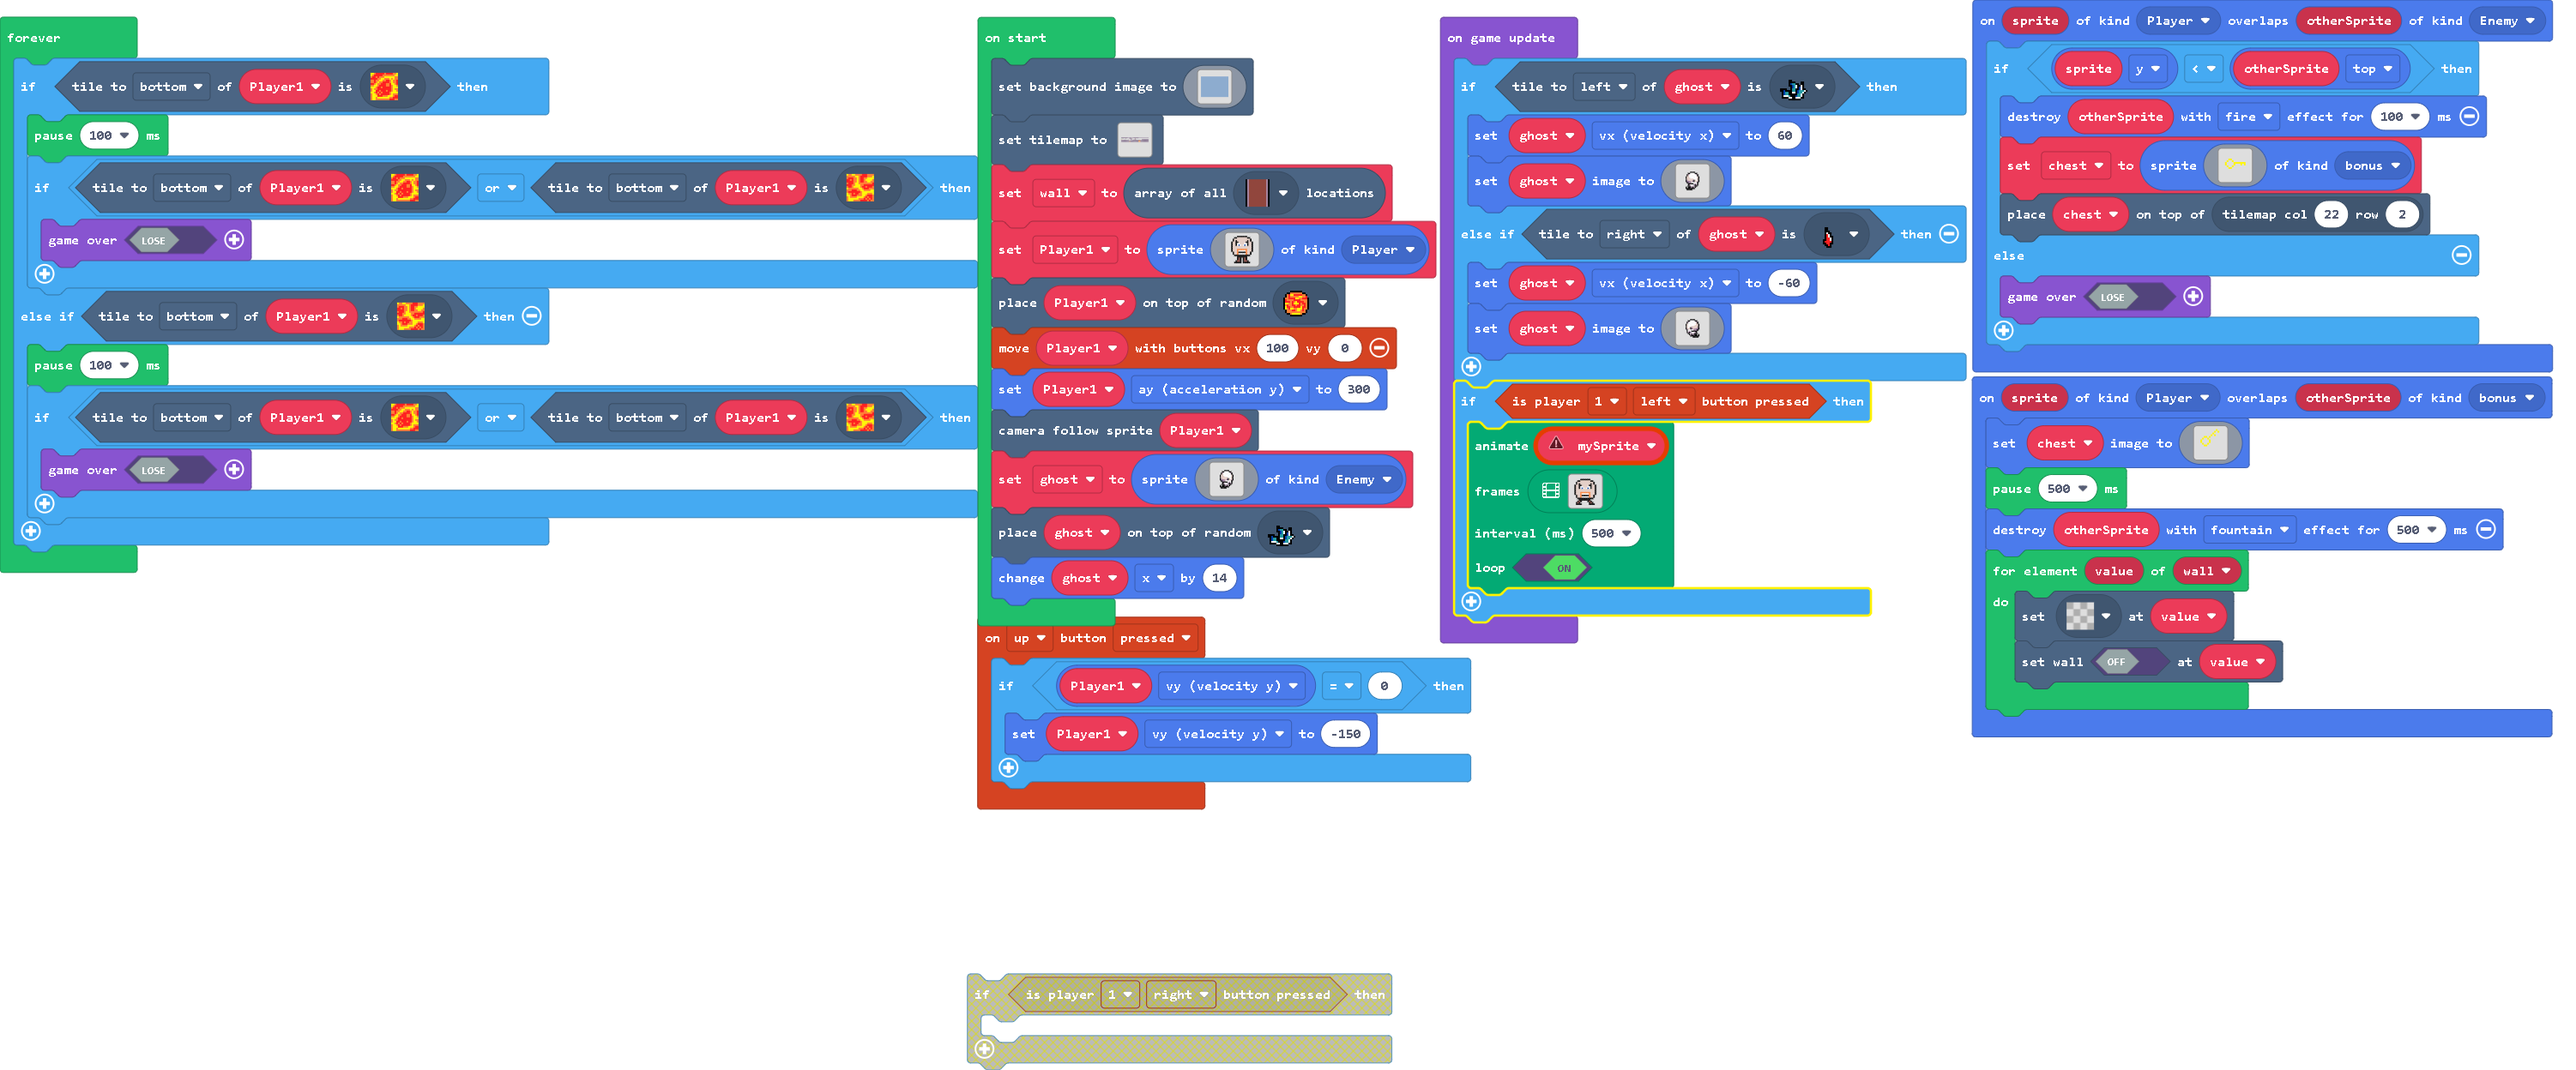
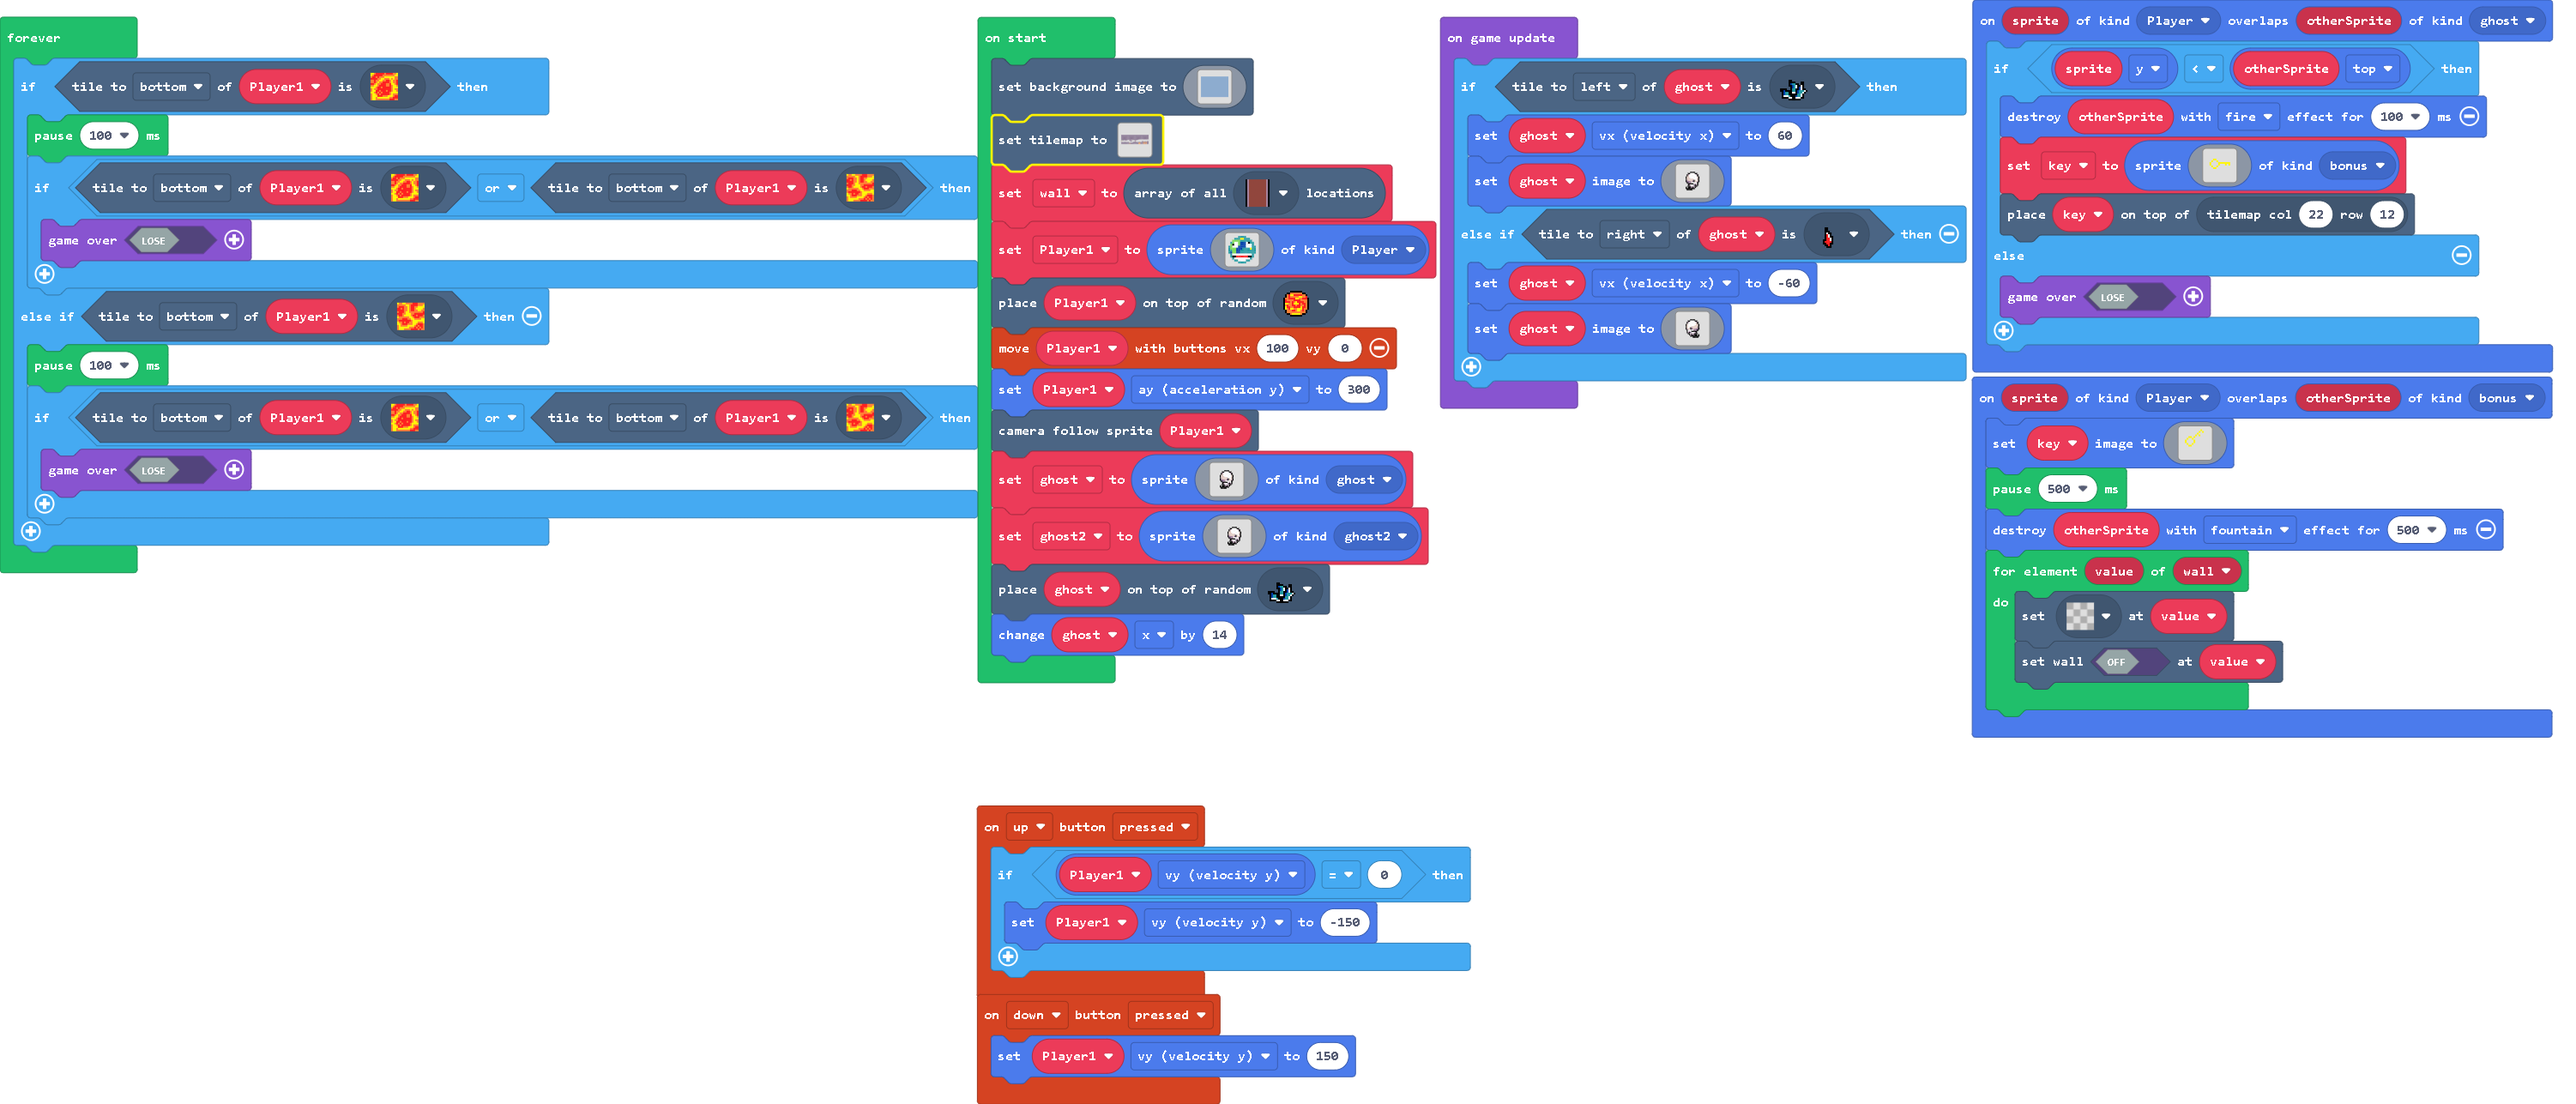
Update main.blocks, main.ts, tilemap.g.jres, tilemap.g.ts

Changed region(s): [[0.0, 0.0312, 0.991, 1.0], [0.3716, 0.0312, 0.4026, 0.0625]]

diff --git a/main.ts b/main.ts
@@ -1,13 +1,41 @@
 namespace SpriteKind {
     export const bonus = SpriteKind.create()
+    export const ghost = SpriteKind.create()
+    export const ghost2 = SpriteKind.create()
 }
 controller.up.onEvent(ControllerButtonEvent.Pressed, function () {
     if (Player1.vy == 0) {
         Player1.vy = -150
     }
 })
+sprites.onOverlap(SpriteKind.Player, SpriteKind.ghost, function (sprite, otherSprite) {
+    if (sprite.y < otherSprite.top) {
+        otherSprite.destroy(effects.fire, 100)
+        key = sprites.create(img`
+            . . . . . . . . . . . . . . . . 
+            . . . . . . . . . . . . . . . . 
+            . . . . . . . . . . . . . . . . 
+            . . . . . . . . . . . . . . . . 
+            . . . . 5 5 . . . . . . . . . . 
+            . . . 5 . . 5 . . . . . . . . . 
+            . . 5 . . . . 5 5 5 5 5 5 5 . . 
+            . . 5 . . . . 5 . . . 5 . 5 . . 
+            . . . 5 . . 5 . . . . . . . . . 
+            . . . . 5 5 . . . . . . . . . . 
+            . . . . . . . . . . . . . . . . 
+            . . . . . . . . . . . . . . . . 
+            . . . . . . . . . . . . . . . . 
+            . . . . . . . . . . . . . . . . 
+            . . . . . . . . . . . . . . . . 
+            . . . . . . . . . . . . . . . . 
+            `, SpriteKind.bonus)
+        tiles.placeOnTile(key, tiles.getTileLocation(22, 12))
+    } else {
+        game.over(false)
+    }
+})
 sprites.onOverlap(SpriteKind.Player, SpriteKind.bonus, function (sprite, otherSprite) {
-    chest.setImage(img`
+    key.setImage(img`
         . . . . . . . . . . . 5 . . . . 
         . . . . . . . . . . 5 . 5 . . . 
         . . . . . . . . . 5 . . . . . . 
@@ -32,33 +60,10 @@ sprites.onOverlap(SpriteKind.Player, SpriteKind.bonus, function (sprite, otherSp
         tiles.setWallAt(value, false)
     }
 })
-sprites.onOverlap(SpriteKind.Player, SpriteKind.Enemy, function (sprite, otherSprite) {
-    if (sprite.y < otherSprite.top) {
-        otherSprite.destroy(effects.fire, 100)
-        chest = sprites.create(img`
-            . . . . . . . . . . . . . . . . 
-            . . . . . . . . . . . . . . . . 
-            . . . . . . . . . . . . . . . . 
-            . . . . . . . . . . . . . . . . 
-            . . . . 5 5 . . . . . . . . . . 
-            . . . 5 . . 5 . . . . . . . . . 
-            . . 5 . . . . 5 5 5 5 5 5 5 . . 
-            . . 5 . . . . 5 . . . 5 . 5 . . 
-            . . . 5 . . 5 . . . . . . . . . 
-            . . . . 5 5 . . . . . . . . . . 
-            . . . . . . . . . . . . . . . . 
-            . . . . . . . . . . . . . . . . 
-            . . . . . . . . . . . . . . . . 
-            . . . . . . . . . . . . . . . . 
-            . . . . . . . . . . . . . . . . 
-            . . . . . . . . . . . . . . . . 
-            `, SpriteKind.bonus)
-        tiles.placeOnTile(chest, tiles.getTileLocation(22, 2))
-    } else {
-        game.over(false)
-    }
+controller.down.onEvent(ControllerButtonEvent.Pressed, function () {
+    Player1.vy = 150
 })
-let chest: Sprite = null
+let key: Sprite = null
 let Player1: Sprite = null
 let wall: tiles.Location[] = []
 scene.setBackgroundImage(img`
@@ -183,39 +188,44 @@ scene.setBackgroundImage(img`
     8888888888888888888888888888888888888888888888888888888888888888888888888888888888888888888888888888888888888888888888888888888888888888888888888888888888888888
     8888888888888888888888888888888888888888888888888888888888888888888888888888888888888888888888888888888888888888888888888888888888888888888888888888888888888888
     `)
[1 lines of base64/hex data omitted]
-    .....................222222...........2222222222222222222222
-    ...................22......22222222222......................
[1 lines of base64/hex data omitted]
+    ............................................................
+    ............................................................
+    ............................................................
+    ............................................................
+    ............................................................
+    ............................................................
+    ............................................................
+    ............................................................
+    ............................................................
+    ......................................2222222222222222222222
+    .....................222222.......2222......................
+    ...................22......2222222..........................
     ...................22.........2.............................
     ...................2222.......2.............................
-    .....................222......2..............222222222222222
-    ...........................222222............2..............
-    2222222222222222.........222.....22222....222...............
-    ...............222..222222...........2....2.................
-    .................2..2................2....2.................
-    .................2..2................2....2.................
+    .....................222......2..............222..2..2..2222
+    ...........................222222............2.2..2..2..2...
+    2222222222222222.........222.....22222....222..2..2..2..2...
+    ...............222..222222...........2....2....2..2..2..2...
+    .................2..2................2....2....2..2..2..2...
+    .................2..2................2....2....2..2..2..2...
     `, [myTiles.transparency16,sprites.dungeon.darkGroundNorth,sprites.dungeon.darkGroundNorthEast0,sprites.dungeon.darkGroundCenter,sprites.dungeon.darkGroundNorthWest0,sprites.dungeon.darkGroundEast,sprites.dungeon.darkGroundWest,sprites.dungeon.darkGroundSouth,sprites.dungeon.darkGroundSouthEast0,sprites.dungeon.darkGroundNorthWest1,myTiles.tile3,myTiles.tile4,myTiles.tile5,sprites.dungeon.hazardLava0,myTiles.tile7,myTiles.tile8,myTiles.tile9,sprites.dungeon.darkGroundSouthWest0,myTiles.tile11,myTiles.tile10,myTiles.tile12,myTiles.tile15,myTiles.tile20,sprites.dungeon.darkGroundSouthWest1,sprites.dungeon.darkGroundSouthEast1,sprites.dungeon.darkGroundNorthEast1,sprites.dungeon.hazardLava1], TileScale.Sixteen))
 wall = tiles.getTilesByType(myTiles.tile20)
 Player1 = sprites.create(img`
-    ......fffffff......
-    ....ffdddddddff....
-    ...fdddddddddddf...
-    ...fdfdddddddfdf...
-    ..fddffdddddffddf..
-    ..fddf11ddd11fddf..
-    ..fddf181d181fddf..
-    ..fdddddddddddddf..
-    ..fdddddddddddddf..
-    ..fddd4444444dddf..
-    ..fddd4111114dddf..
-    ...fdd4fffff4ddf...
-    ...fdd4111114ddf...
-    ....fffffffffff....
-    ......fffffff......
-    ......fef.fef......
-    ......fef.fef......
-    .....feef.feef.....
-    ....fffff.fffff....
+    . . . . . 6 6 6 6 . . . . . 
+    . . . 6 6 6 5 5 6 6 6 . . . 
+    . . 7 7 7 7 6 6 6 6 6 6 . . 
+    . 6 7 1 1 7 8 8 8 1 f 6 6 . 
+    . 7 f 1 1 7 8 8 8 1 1 1 6 . 
+    6 7 1 1 1 8 8 8 8 1 1 1 6 6 
+    6 7 7 7 8 8 8 6 6 6 6 5 6 6 
+    6 6 7 7 8 8 6 6 6 6 6 6 6 6 
+    6 8 7 7 8 8 6 6 6 6 6 6 6 6 
+    . 6 1 1 1 1 1 1 1 1 1 1 6 . 
+    . 6 f f 2 2 2 2 2 2 f f 6 . 
+    . . 6 1 1 1 1 1 1 1 1 6 . . 
+    . . . 6 6 1 1 1 1 6 6 . . . 
+    . . . . . 6 6 6 6 . . . . . 
     `, SpriteKind.Player)
 tiles.placeOnRandomTile(Player1, myTiles.tile5)
 controller.moveSprite(Player1, 100, 0)
@@ -246,7 +256,33 @@ let ghost = sprites.create(img`
     ........................
     ........................
     ........................
-    `, SpriteKind.Enemy)
+    `, SpriteKind.ghost)
+let ghost2 = sprites.create(img`
+    ........................
+    ........................
+    ........................
+    ........................
+    ..........ffff..........
+    ........ff1111ff........
+    .......fb111111bf.......
+    .......fd1111111f.......
+    ......fdd1111111df......
+    ......fddd111111df......
+    ......fdddddd111df......
+    ......fbddddbfd1df......
+    ......fcbbbdcfddbf......
+    .......fcbb11111f.......
+    ........fffff1b1f.......
+    ........fb111cfbf.......
+    ........ffb1b1ff........
+    ......f.fffbfbf.........
+    ......ffffffff..........
+    .......fffff............
+    ........................
+    ........................
+    ........................
+    ........................
+    `, SpriteKind.ghost2)
 tiles.placeOnRandomTile(ghost, myTiles.tile15)
 ghost.x += 14
 game.onUpdate(function () {
@@ -306,55 +342,6 @@ game.onUpdate(function () {
             ........................
             ........................
             `)
-    }
-    if (controller.player1.isPressed(ControllerButton.Left)) {
-        let mySprite: Sprite = null
-        animation.runImageAnimation(
-        mySprite,
-        [img`
-            ...................
-            ......fffffff......
-            ....ffdddddddff....
-            ...fdddddddddddf...
-            ...fdfdddddddfdf...
-            ..fddffdddddffddf..
-            ..fddf11ddd11fddf..
-            ..fddf181d181fddf..
-            ..fdddddddddddddf..
-            ..fdddddddddddddf..
-            ..fddd4444444dddf..
-            ..fddd4111114dddf..
-            ...fdd4fffff4ddf...
-            ...fdd4111114ddf...
-            ....fffffffffff....
-            .....ffffffff......
-            ....fef....fef.....
-            ...fef......fef....
-            ...ffff.....ffff...
-            `,img`
-            ......fffffff......
-            ....ffdddddddff....
-            ...fdddddddddddf...
-            ...fdfdddddddfdf...
-            ..fddffdddddffddf..
-            ..fddf11ddd11fddf..
-            ..fddf181d181fddf..
-            ..fdddddddddddddf..
-            ..fdddddddddddddf..
-            ..fddd4444444dddf..
-            ..fddd4111114dddf..
-            ...fdd4fffff4ddf...
-            ...fdd4111114ddf...
-            ....fffffffffff....
-            ......fffffff......
-            ......fef.fef......
-            ......fef.fef......
-            .....feef.feef.....
-            ....fffff.fffff....
-            `],
-        500,
-        true
-        )
     }
 })
 forever(function () {

diff --git a/tilemap.g.ts b/tilemap.g.ts
@@ -33,15 +33,11 @@ namespace myTiles {
     //% fixedInstance jres blockIdentity=images._tile
     export const tile15 = image.ofBuffer(hex``);
     //% fixedInstance jres blockIdentity=images._tile
-    export const tile16 = image.ofBuffer(hex``);
-    //% fixedInstance jres blockIdentity=images._tile
-    export const tile17 = image.ofBuffer(hex``);
-    //% fixedInstance jres blockIdentity=images._tile
-    export const tile18 = image.ofBuffer(hex``);
-    //% fixedInstance jres blockIdentity=images._tile
-    export const tile19 = image.ofBuffer(hex``);
-    //% fixedInstance jres blockIdentity=images._tile
     export const tile20 = image.ofBuffer(hex``);
+    //% fixedInstance jres blockIdentity=images._tile
+    export const tile21 = image.ofBuffer(hex``);
+    //% fixedInstance jres blockIdentity=images._tile
+    export const tile22 = image.ofBuffer(hex``);
 
     helpers.registerTilemapFactory(function(name: string) {
         switch(helpers.stringTrim(name)) {
